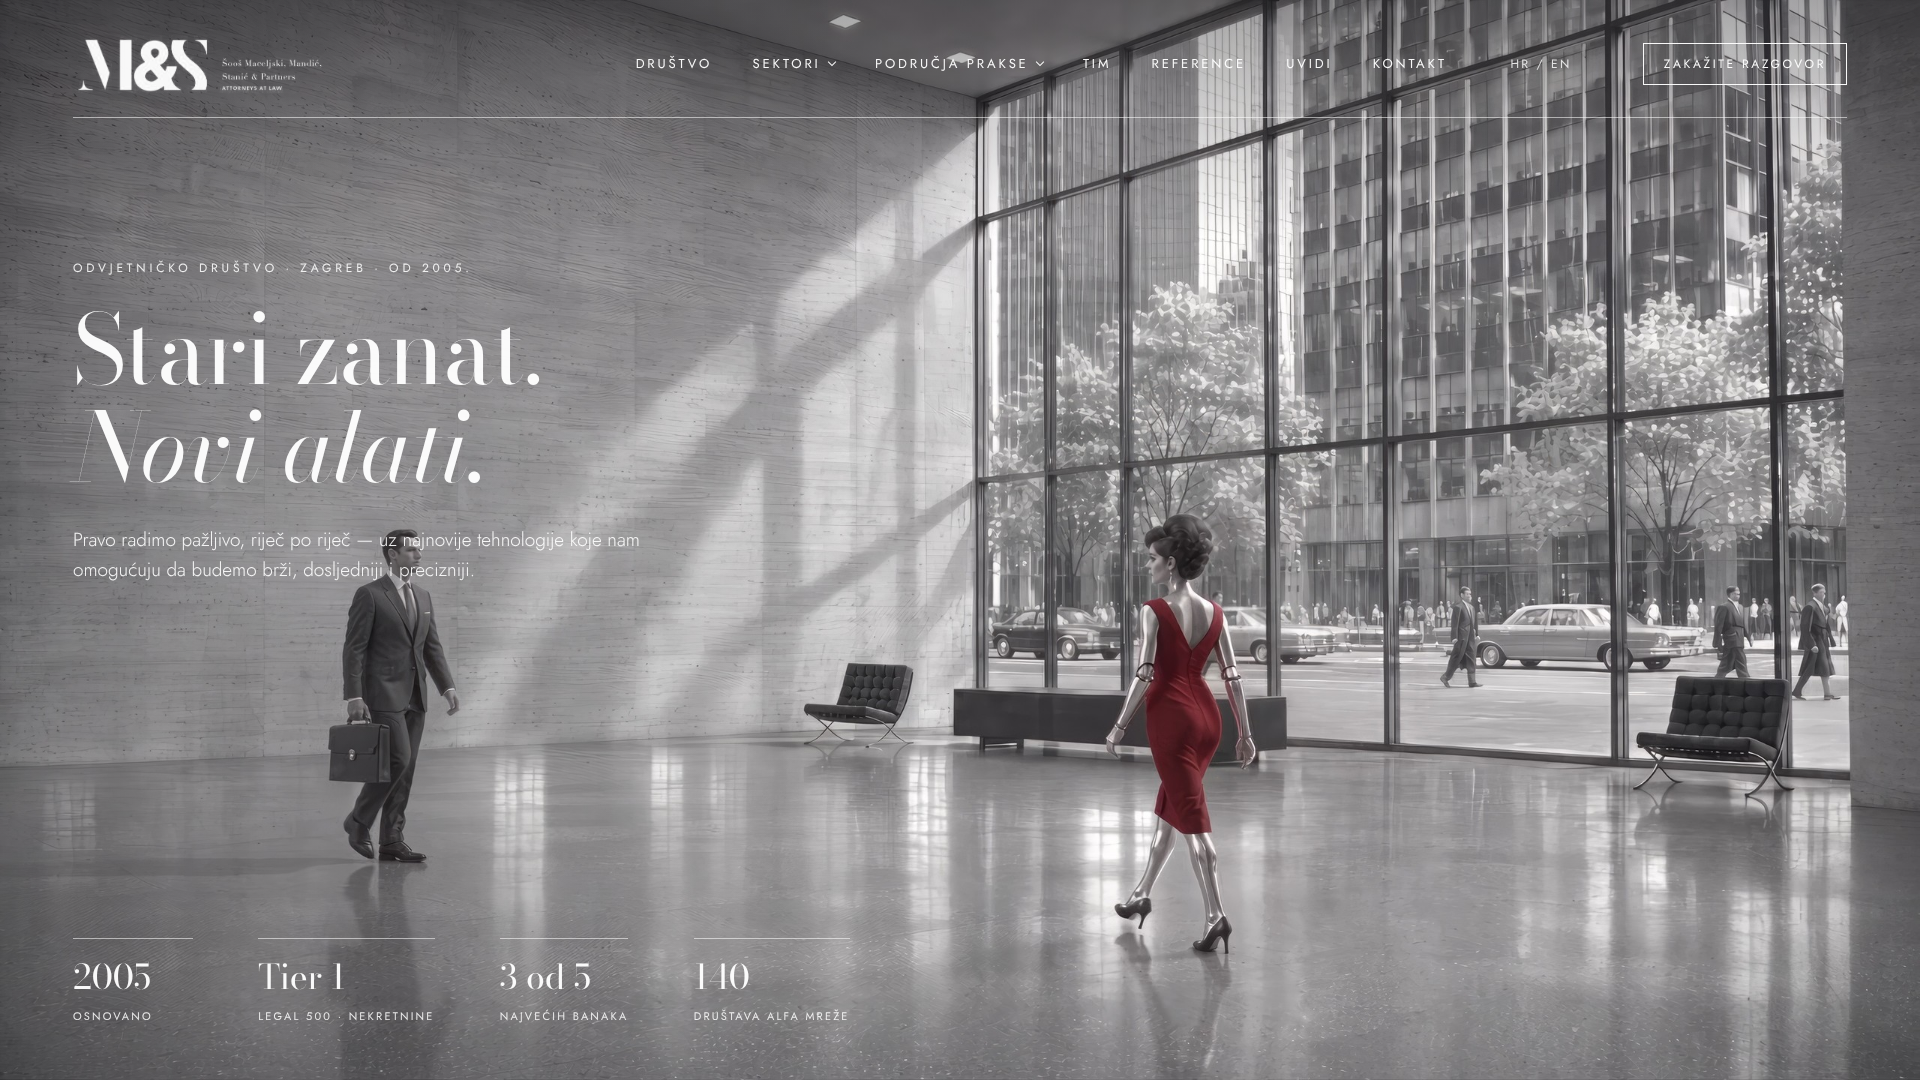
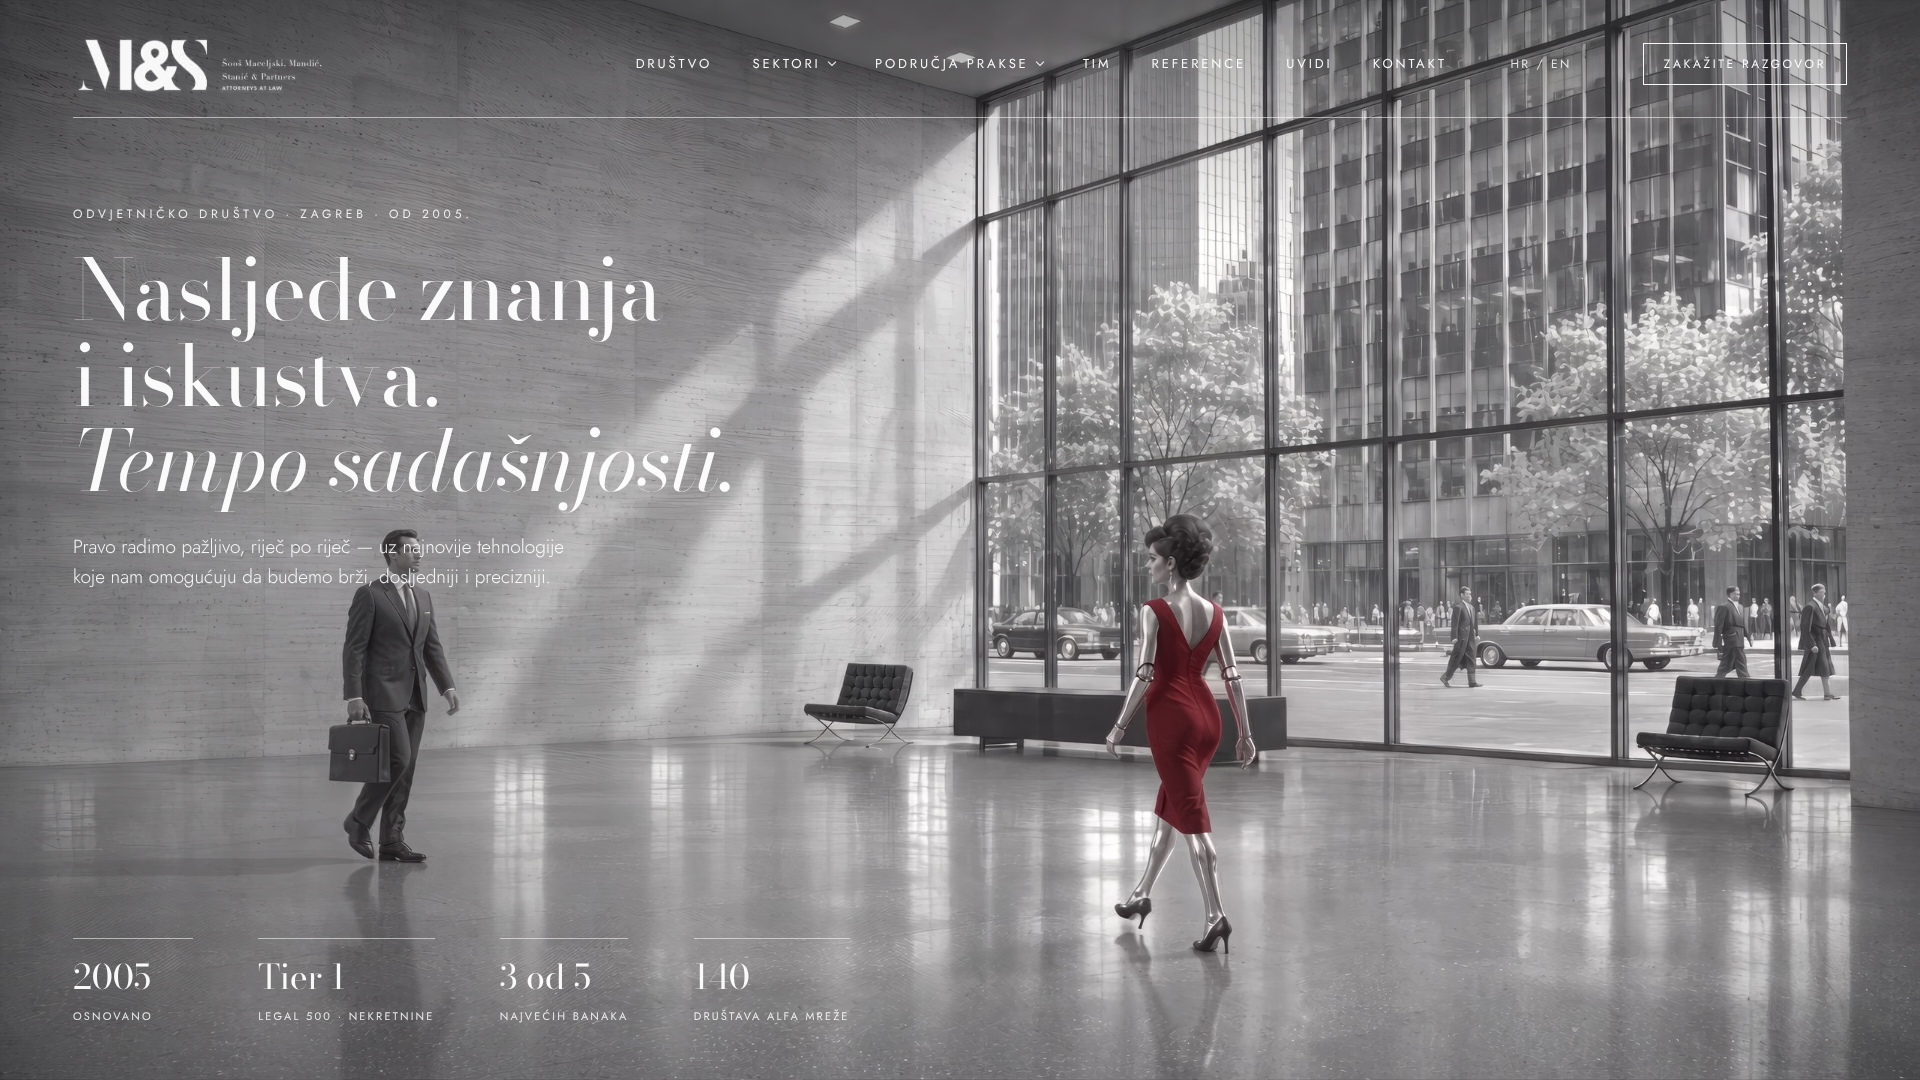
Mockup: approved headline
Claude-Session: https://claude.ai/code/session_01EAv5Qm6mDQ8RZES4ATYqNi

Changed region(s): [[0.0312, 0.2444, 0.375, 0.4583], [0.0312, 0.4889, 0.3125, 0.55]]

diff --git a/website/mockup/index.html b/website/mockup/index.html
@@ -29,11 +29,11 @@
   nav a.on{border-bottom:1px solid var(--white)}
   .lang{font-size:12px;letter-spacing:.2em;opacity:.85;margin-left:1.2vw}
   .cta{margin-left:1.6vw;border:1px solid var(--white);padding:11px 20px;font-size:12px;letter-spacing:.22em;text-transform:uppercase;color:var(--white);text-decoration:none}
-  .copy{position:absolute;left:3.8vw;top:24vh;max-width:36vw}
+  .copy{position:absolute;left:3.8vw;top:19vh;max-width:40vw}
   .eyebrow{font-size:12px;letter-spacing:.32em;text-transform:uppercase;opacity:.9}
-  h1{font-family:"Bodoni Moda",Didot,serif;font-weight:400;font-size:clamp(44px,5.4vw,96px);line-height:1.02;margin:2.2vh 0 2.6vh;letter-spacing:-.01em}
+  h1{font-family:"Bodoni Moda",Didot,serif;font-weight:400;font-size:clamp(40px,4.4vw,84px);line-height:1.02;margin:2.2vh 0 2.6vh;letter-spacing:-.01em}
   h1 em{font-style:italic}
-  .lead{font-size:clamp(15px,1.15vw,19px);line-height:1.6;font-weight:300;max-width:30vw;opacity:.95}
+  .lead{font-size:clamp(15px,1.15vw,19px);line-height:1.6;font-weight:300;max-width:26vw;opacity:.95}
   .facts{position:absolute;left:3.8vw;bottom:5vh;display:flex;gap:3.4vw}
   .facts div{border-top:1px solid var(--line);padding-top:12px;min-width:120px}
   .facts b{display:block;font-family:"Bodoni Moda",serif;font-weight:400;font-size:34px}
@@ -67,7 +67,7 @@
 
   <div class="copy">
     <div class="eyebrow">Odvjetničko društvo · Zagreb · od 2005.</div>
-    <h1>Stari zanat.<br><em>Novi alati.</em></h1>
+    <h1>Nasljeđe znanja<br>i iskustva.<br><em>Tempo sadašnjosti.</em></h1>
     <p class="lead">Pravo radimo pažljivo, riječ po riječ — uz najnovije tehnologije koje nam omogućuju da budemo brži, dosljedniji i precizniji.</p>
   </div>
 
